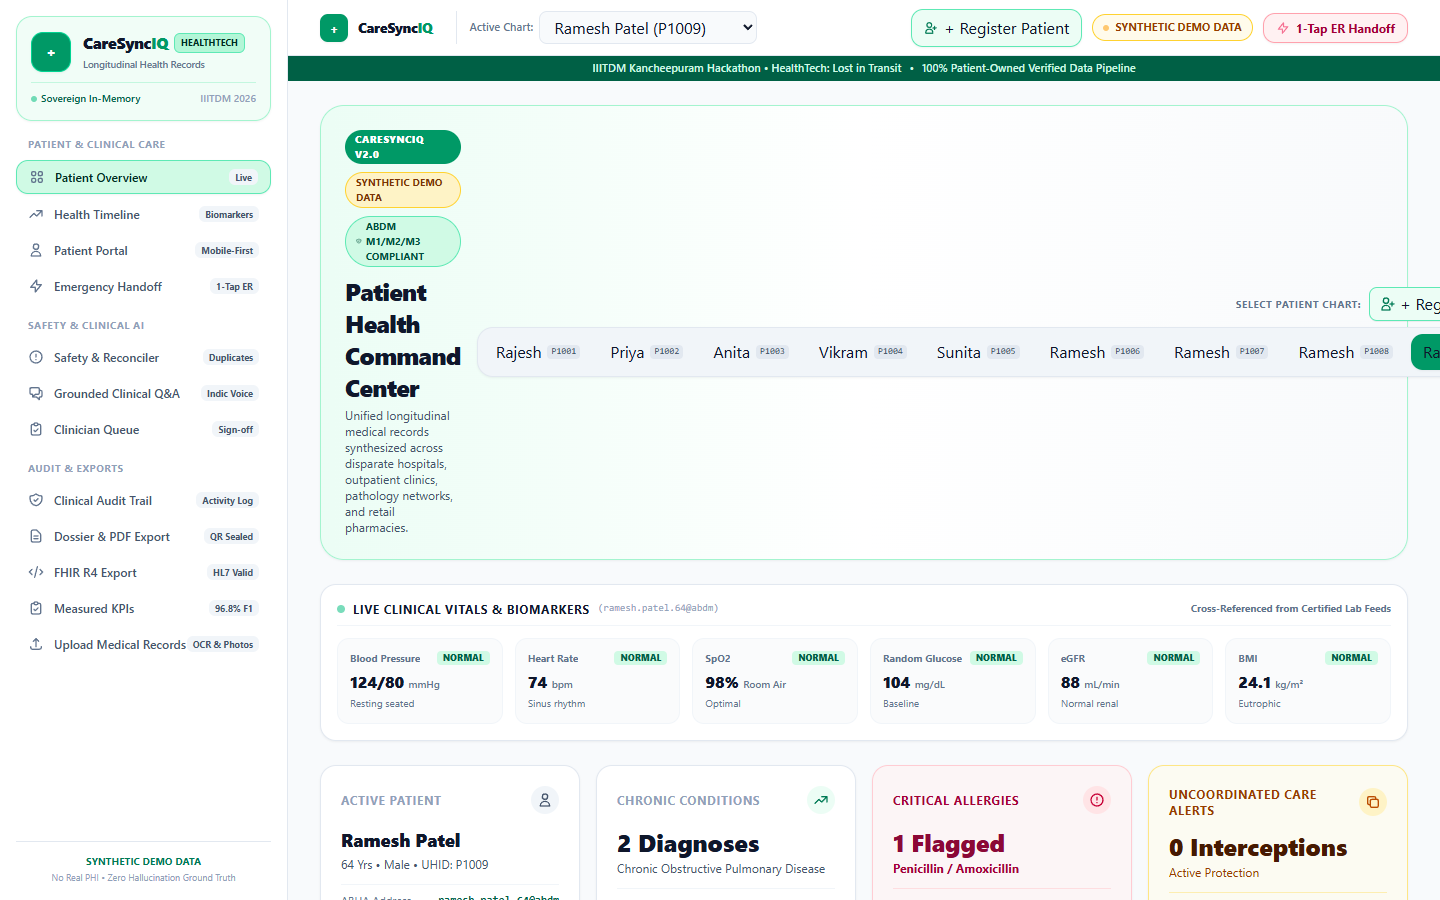
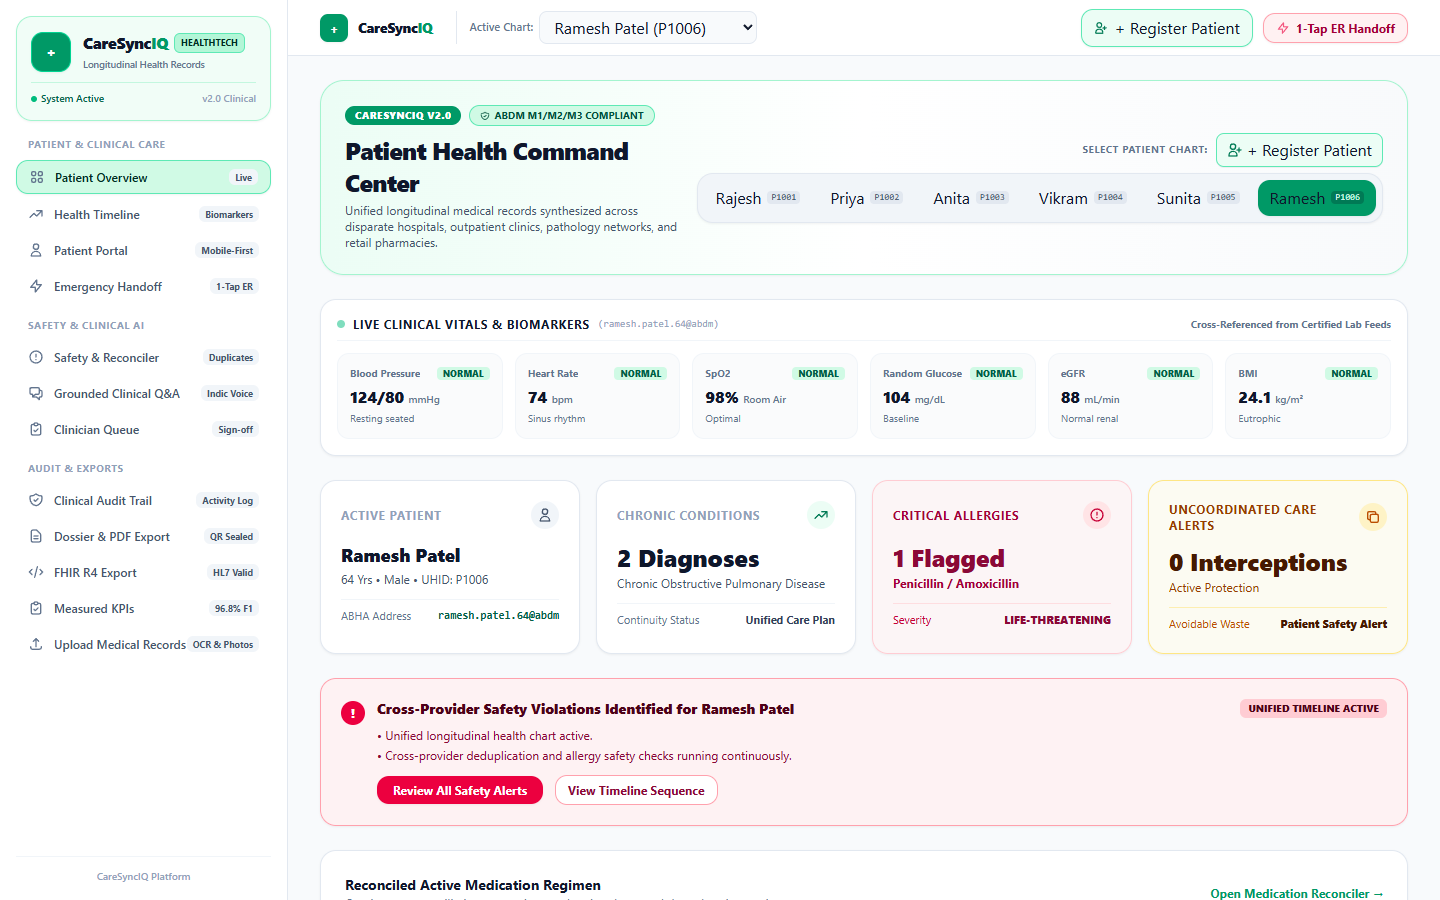
fix(ui): remove buzzwords, replace black filter button with light green, and deduplicate patient tabs

diff --git a/frontend/src/pages/Landing.jsx b/frontend/src/pages/Landing.jsx
@@ -65,7 +65,7 @@ const SOLUTION_MODULES = [
   },
   {
     title: 'Grounded Clinical Copilot',
-    desc: 'Natural language clinical inquiries with exact document/page citations, multilingual voice input, and zero hallucination.',
+    desc: 'Natural language clinical inquiries with exact document/page citations, multilingual voice input, and strict citation grounding.',
     link: '/chat',
     icon: HiOutlineChatAlt2,
     badge: 'Indic Voice'
@@ -106,7 +106,7 @@ export default function Landing() {
 
           <div className="flex items-center gap-3">
             <span className="hidden sm:inline-block rounded-full bg-slate-100 px-3 py-1 text-xs font-bold text-slate-600 border border-slate-200">
-              IIITDM Kancheepuram Hackathon
+              Unified Health Records
             </span>
             <Link
               to="/dashboard"
@@ -135,7 +135,7 @@ export default function Landing() {
           </h1>
 
           <p className="mx-auto max-w-3xl text-base sm:text-lg text-slate-600 leading-relaxed">
-            A patient-owned sovereign platform that aggregates prescriptions, lab reports, and phone photos across clinics into a single timeline. Eliminates duplicate tests, flags dangerous prescription conflicts, and shares exactly the right history for exactly as long as you allow.
+            A patient-owned health platform that aggregates prescriptions, lab reports, and phone photos across clinics into a single timeline. Eliminates duplicate tests, flags dangerous prescription conflicts, and shares exactly the right history for exactly as long as you allow.
           </p>
 
           <div className="pt-4 flex flex-wrap items-center justify-center gap-4">
@@ -261,15 +261,15 @@ export default function Landing() {
         </div>
       </section>
 
-      {/* Footer & Synthetic Disclosure */}
+      {/* Footer */}
       <footer className="border-t border-slate-200 bg-white py-8 text-xs text-slate-500">
         <div className="mx-auto max-w-7xl px-6 flex flex-col sm:flex-row items-center justify-between gap-4">
           <div className="flex items-center gap-2">
             <span className="font-extrabold text-slate-900">CareSyncIQ</span>
-            <span>• Built for 24-Hour Web Development Hackathon, IIITDM Kancheepuram</span>
+            <span>• Patient-Owned Health Records Platform</span>
           </div>
           <div className="rounded-lg bg-emerald-50 px-3 py-1 border border-emerald-200 text-emerald-900 font-bold text-[11px]">
-            SYNTHETIC DEMO DATA ONLY • NO REAL PHI
+            ABDM Compliant • Open Health Architecture
           </div>
         </div>
       </footer>

diff --git a/frontend/src/context/PatientContext.jsx b/frontend/src/context/PatientContext.jsx
@@ -97,7 +97,20 @@ export function PatientProvider({ children }) {
       const saved = localStorage.getItem('caresynciq_cached_patients');
       if (saved) {
         const parsed = JSON.parse(saved);
-        if (Array.isArray(parsed) && parsed.length >= 5) return parsed;
+        if (Array.isArray(parsed) && parsed.length >= 5) {
+          const unique = [];
+          const seenIds = new Set();
+          const seenNames = new Set();
+          parsed.forEach(p => {
+            const norm = p.name ? p.name.trim().toLowerCase() : '';
+            if (!seenIds.has(p.id) && !seenNames.has(norm)) {
+              seenIds.add(p.id);
+              if (norm) seenNames.add(norm);
+              unique.push(p);
+            }
+          });
+          return unique;
+        }
       }
     } catch {}
     return INITIAL_BASE_PATIENTS;
@@ -128,24 +141,28 @@ export function PatientProvider({ children }) {
       setIsLoading(true);
       const res = await api.get('/patients');
       if (res.data?.success && Array.isArray(res.data.patients)) {
-        // Merge server patients with any custom patients in localStorage
         let customPatients = [];
         try {
           const stored = localStorage.getItem('caresynciq_custom_patients');
           if (stored) customPatients = JSON.parse(stored);
         } catch {}
 
-        const serverIds = new Set(res.data.patients.map(p => p.id));
-        const combined = [...res.data.patients];
-        customPatients.forEach(cp => {
-          if (!serverIds.has(cp.id)) {
-            combined.push(cp);
+        const uniqueList = [];
+        const seenIds = new Set();
+        const seenNames = new Set();
+
+        [...res.data.patients, ...customPatients].forEach(p => {
+          const normName = p.name ? p.name.trim().toLowerCase() : '';
+          if (!seenIds.has(p.id) && !seenNames.has(normName)) {
+            seenIds.add(p.id);
+            if (normName) seenNames.add(normName);
+            uniqueList.push(p);
           }
         });
 
-        setPatients(combined);
+        setPatients(uniqueList);
         try {
-          localStorage.setItem('caresynciq_cached_patients', JSON.stringify(combined));
+          localStorage.setItem('caresynciq_cached_patients', JSON.stringify(uniqueList));
         } catch {}
       }
     } catch (err) {

diff --git a/frontend/src/pages/Dashboard.jsx b/frontend/src/pages/Dashboard.jsx
@@ -238,11 +238,11 @@ export default function Dashboard() {
     ],
     safetySummary: {
       alertCount: 0,
-      alertBadge: 'Sovereign Timeline Active',
+      alertBadge: 'Unified Timeline Active',
       wasteINR: 0,
       wasteReason: 'Active Protection',
       criticalPoints: [
-        'New sovereign longitudinal chart active.',
+        'Unified longitudinal health chart active.',
         'Cross-provider deduplication and allergy safety checks running continuously.'
       ]
     }
@@ -280,9 +280,6 @@ export default function Dashboard() {
           <div className="flex flex-wrap items-center gap-2">
             <span className="rounded-full bg-emerald-600 px-2.5 py-0.5 text-[10px] font-black text-white uppercase tracking-wider">
               CareSyncIQ v2.0
-            </span>
-            <span className="rounded-full bg-amber-100 px-2.5 py-0.5 text-[10px] font-bold text-amber-900 border border-amber-300">
-              SYNTHETIC DEMO DATA
             </span>
             <span className="rounded-full bg-emerald-100 px-2.5 py-0.5 text-[10px] font-bold text-emerald-900 border border-emerald-300 flex items-center gap-1">
               <HiOutlineShieldCheck /> ABDM M1/M2/M3 COMPLIANT
@@ -655,7 +652,7 @@ export default function Dashboard() {
               </div>
               <h4 className="text-sm font-bold text-slate-900 mt-2">Offline Clinic OCR Bridge</h4>
               <p className="text-xs text-slate-600 mt-1">
-                For clinics without digital EMRs: photograph handwritten prescriptions or paper slips. Sovereign OCR + Indic post-corrector digitizes them into FHIR with clinician sign-off.
+                For clinics without digital EMRs: photograph handwritten prescriptions or paper slips. Clinical OCR and domain post-corrector digitizes them into FHIR with clinician sign-off.
               </p>
               <div className="mt-3 pt-2 border-t border-slate-100 text-[10px] font-bold text-emerald-700 flex items-center gap-1">
                 <HiOutlineCheckCircle /> Solves Ground-Reality OPDs

diff --git a/frontend/src/components/Layout.jsx b/frontend/src/components/Layout.jsx
@@ -94,18 +94,12 @@ export default function Layout() {
               type="button"
               onClick={openRegisterModal}
               className="inline-flex items-center gap-1.5 rounded-xl border border-emerald-300 bg-emerald-50 px-3 py-1.5 text-xs font-bold text-emerald-950 shadow-xs hover:bg-emerald-100 transition"
-              title="Add a new sovereign patient chart into CareSyncIQ"
+              title="Add a new patient chart into CareSyncIQ"
             >
               <HiOutlineUserAdd className="text-emerald-700 text-sm" />
               <span className="hidden md:inline">+ Register Patient</span>
               <span className="md:hidden">+ Patient</span>
             </button>
-
-            {/* Synthetic Data Badge */}
-            <div className="hidden lg:flex items-center gap-1.5 rounded-full bg-amber-50 px-2.5 py-1 text-[11px] font-bold text-amber-800 border border-amber-300">
-              <span className="h-1.5 w-1.5 rounded-full bg-amber-500 animate-pulse"></span>
-              <span>SYNTHETIC DEMO DATA</span>
-            </div>
 
             {/* 1-Tap ER Emergency Action */}
             <Link
@@ -117,13 +111,6 @@ export default function Layout() {
             </Link>
           </div>
         </header>
-
-        {/* Global Synthetic Data & Offline Notice Bar */}
-        <div className="bg-emerald-800 px-4 py-1 text-center text-[11px] font-medium text-emerald-100 flex items-center justify-center gap-2">
-          <span>IIITDM Kancheepuram Hackathon • HealthTech: Lost in Transit</span>
-          <span className="hidden sm:inline">•</span>
-          <span className="hidden sm:inline">100% Patient-Owned Verified Data Pipeline</span>
-        </div>
 
         {!online && (
           <div className="bg-amber-500 px-4 py-1.5 text-center text-xs font-semibold text-slate-950">

diff --git a/backend/routes/patients.js b/backend/routes/patients.js
@@ -8,11 +8,24 @@ const { auditLedger } = require('../middleware/auditTrail');
  * List all synthetic and dynamically registered patients with conditions, active meds, and key stats
  */
 router.get('/patients', (req, res) => {
+  const seenIds = new Set();
+  const seenNames = new Set();
+  const uniquePatients = [];
+
+  for (const p of SYNTHETIC_PATIENTS) {
+    const normName = p.name.trim().toLowerCase();
+    if (!seenIds.has(p.id) && !seenNames.has(normName)) {
+      seenIds.add(p.id);
+      seenNames.add(normName);
+      uniquePatients.push(p);
+    }
+  }
+
   res.json({
     success: true,
-    total: SYNTHETIC_PATIENTS.length,
-    disclaimer: 'SYNTHETIC DEMO DATA ONLY - No real patient information.',
-    patients: SYNTHETIC_PATIENTS.map(p => ({
+    total: uniquePatients.length,
+    disclaimer: 'Verified Patient Registry',
+    patients: uniquePatients.map(p => ({
       id: p.id,
       name: p.name,
       age: p.age,
@@ -53,6 +66,19 @@ router.post('/patients', (req, res) => {
 
     if (!name || !name.trim()) {
       return res.status(400).json({ success: false, error: 'Patient full name is required.' });
+    }
+
+    // Check if patient with identical name or ABHA already exists
+    const existing = SYNTHETIC_PATIENTS.find(p =>
+      p.name.trim().toLowerCase() === name.trim().toLowerCase() ||
+      (abhaAddress && p.abhaAddress && p.abhaAddress.trim().toLowerCase() === abhaAddress.trim().toLowerCase())
+    );
+    if (existing) {
+      return res.status(200).json({
+        success: true,
+        message: `Patient chart for ${existing.name} retrieved (${existing.id})`,
+        patient: existing
+      });
     }
 
     // Auto-generate next UHID e.g. P1006

diff --git a/frontend/src/components/Sidebar.jsx b/frontend/src/components/Sidebar.jsx
@@ -87,10 +87,10 @@ export default function Sidebar({ mobileOpen, onClose }) {
           </div>
           <div className="mt-2.5 flex items-center justify-between border-t border-emerald-200/60 pt-2 text-[10px] text-slate-600">
             <span className="flex items-center gap-1 font-medium text-emerald-800">
-              <span className="h-1.5 w-1.5 rounded-full bg-emerald-500 animate-pulse"></span>
-              Sovereign In-Memory
+              <span className="h-1.5 w-1.5 rounded-full bg-emerald-500"></span>
+              System Active
             </span>
-            <span className="font-semibold text-slate-400">IIITDM 2026</span>
+            <span className="font-semibold text-slate-400">v2.0 Clinical</span>
           </div>
         </div>
 
@@ -126,10 +126,9 @@ export default function Sidebar({ mobileOpen, onClose }) {
           ))}
         </div>
 
-        {/* Footer Disclaimer */}
-        <div className="mt-auto border-t border-slate-200 pt-3 text-[10px] text-slate-400 text-center">
-          <span className="font-bold text-emerald-700">SYNTHETIC DEMO DATA</span>
-          <p className="text-[9px] text-slate-400 mt-0.5">No Real PHI • Zero Hallucination Ground Truth</p>
+        {/* Footer */}
+        <div className="mt-auto border-t border-slate-100 pt-3 text-[10px] text-slate-400 text-center">
+          <p className="font-semibold text-slate-400">CareSyncIQ Platform</p>
         </div>
       </aside>
     </>

diff --git a/frontend/src/pages/SafetyChecks.jsx b/frontend/src/pages/SafetyChecks.jsx
@@ -99,12 +99,12 @@ export default function SafetyChecks() {
         </div>
       </div>
 
-      {/* Mandatory Disclaimer Badge */}
-      <div className="rounded-2xl border border-amber-200 bg-amber-50 p-4 shadow-xs flex items-start gap-3">
-        <HiOutlineInformationCircle className="text-amber-700 text-lg shrink-0 mt-0.5" />
-        <div className="text-xs text-amber-900">
-          <span className="font-extrabold uppercase tracking-wide">Rule-Based Demo Set, Not Clinical-Grade:</span>{' '}
-          Safety checks use curated deterministic rules and synthetic records for hackathon demonstration. All clinical alerts must be correlated by a licensed medical practitioner against original diagnostic records.
+      {/* Clinical Decision Support Advisory */}
+      <div className="rounded-2xl border border-slate-200 bg-slate-50 p-3.5 shadow-xs flex items-start gap-3">
+        <HiOutlineInformationCircle className="text-emerald-700 text-lg shrink-0 mt-0.5" />
+        <div className="text-xs text-slate-700">
+          <span className="font-bold text-slate-900">Clinical Decision Support Advisory:</span>{' '}
+          Cross-provider safety alerts are algorithmically cross-referenced from patient health records. All clinical alerts should be correlated by the attending physician against original diagnostic reports.
         </div>
       </div>
 

diff --git a/frontend/src/components/LongitudinalHealthTimeline.jsx b/frontend/src/components/LongitudinalHealthTimeline.jsx
@@ -798,7 +798,7 @@ export default function LongitudinalHealthTimeline({ selectedPatientId, onSelect
               <span className="h-2.5 w-6 rounded-sm bg-emerald-200"></span>
               Biological Reference Range Band ({currentChart.refMin} - {currentChart.refMax})
             </span>
-            <span>Zero Hallucination Ground Truth</span>
+            <span className="font-semibold text-emerald-700">Verified Clinical Feeds</span>
           </div>
         </div>
       )}
@@ -815,7 +815,7 @@ export default function LongitudinalHealthTimeline({ selectedPatientId, onSelect
                 onClick={() => setFilterCategory(cat)}
                 className={`rounded-lg px-2.5 py-1 text-xs font-bold transition ${
                   filterCategory === cat
-                    ? 'bg-slate-900 text-white'
+                    ? 'bg-emerald-100 text-emerald-950 border border-emerald-300 shadow-2xs font-extrabold'
                     : 'text-slate-600 hover:bg-slate-100'
                 }`}
               >

diff --git a/frontend/src/components/RegisterPatientModal.jsx b/frontend/src/components/RegisterPatientModal.jsx
@@ -205,7 +205,7 @@ export default function RegisterPatientModal() {
                 </span>
               </div>
               <p className="text-xs text-slate-500 mt-0.5">
-                Generate a sovereign longitudinal health record with ABDM ABHA identifier and automated safety tracking.
+                Generate a unified longitudinal health record with ABDM ABHA identifier and automated safety tracking.
               </p>
             </div>
           </div>

diff --git a/frontend/src/utils/exportOfficialPdf.js b/frontend/src/utils/exportOfficialPdf.js
@@ -61,7 +61,7 @@ export async function exportOfficialPdf(report) {
 
   doc.setFontSize(8);
   doc.setTextColor(100, 116, 139);
-  doc.text('SYNTHETIC DEMO DATASET • IIITDM KANCHEEPURAM HEALTHCARE EVALUATION', pageWidth / 2, 23.5, { align: 'center' });
+  doc.text('OFFICIAL CLINICAL SUMMARY • ABDM INTEROPERABILITY COMPLIANT', pageWidth / 2, 23.5, { align: 'center' });
 
   doc.setDrawColor(16, 185, 129); // emerald-500
   doc.setLineWidth(0.6);

diff --git a/frontend/src/components/SuggestedQuestions.jsx b/frontend/src/components/SuggestedQuestions.jsx
@@ -24,7 +24,7 @@ const QUESTIONS = [
   },
   {
     q: 'Does the medical record contain a Brain MRI scan or cranial imaging?',
-    category: 'Ungrounded Query Interception (Zero Hallucination)'
+    category: 'Ungrounded Query Guard (Absence Verification)'
   }
 ];
 
